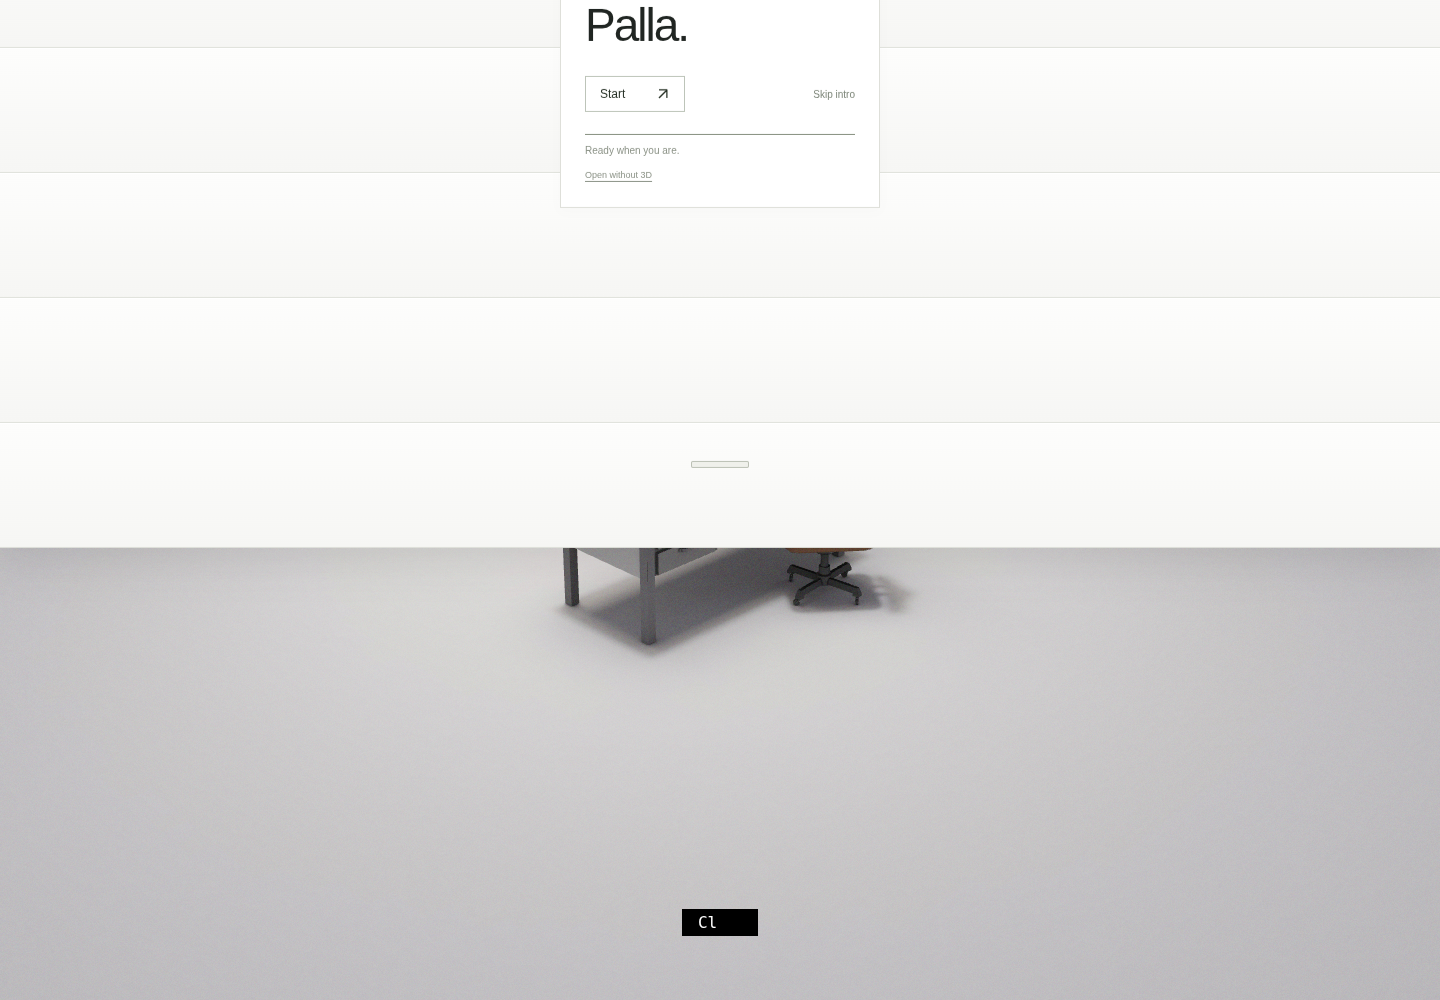
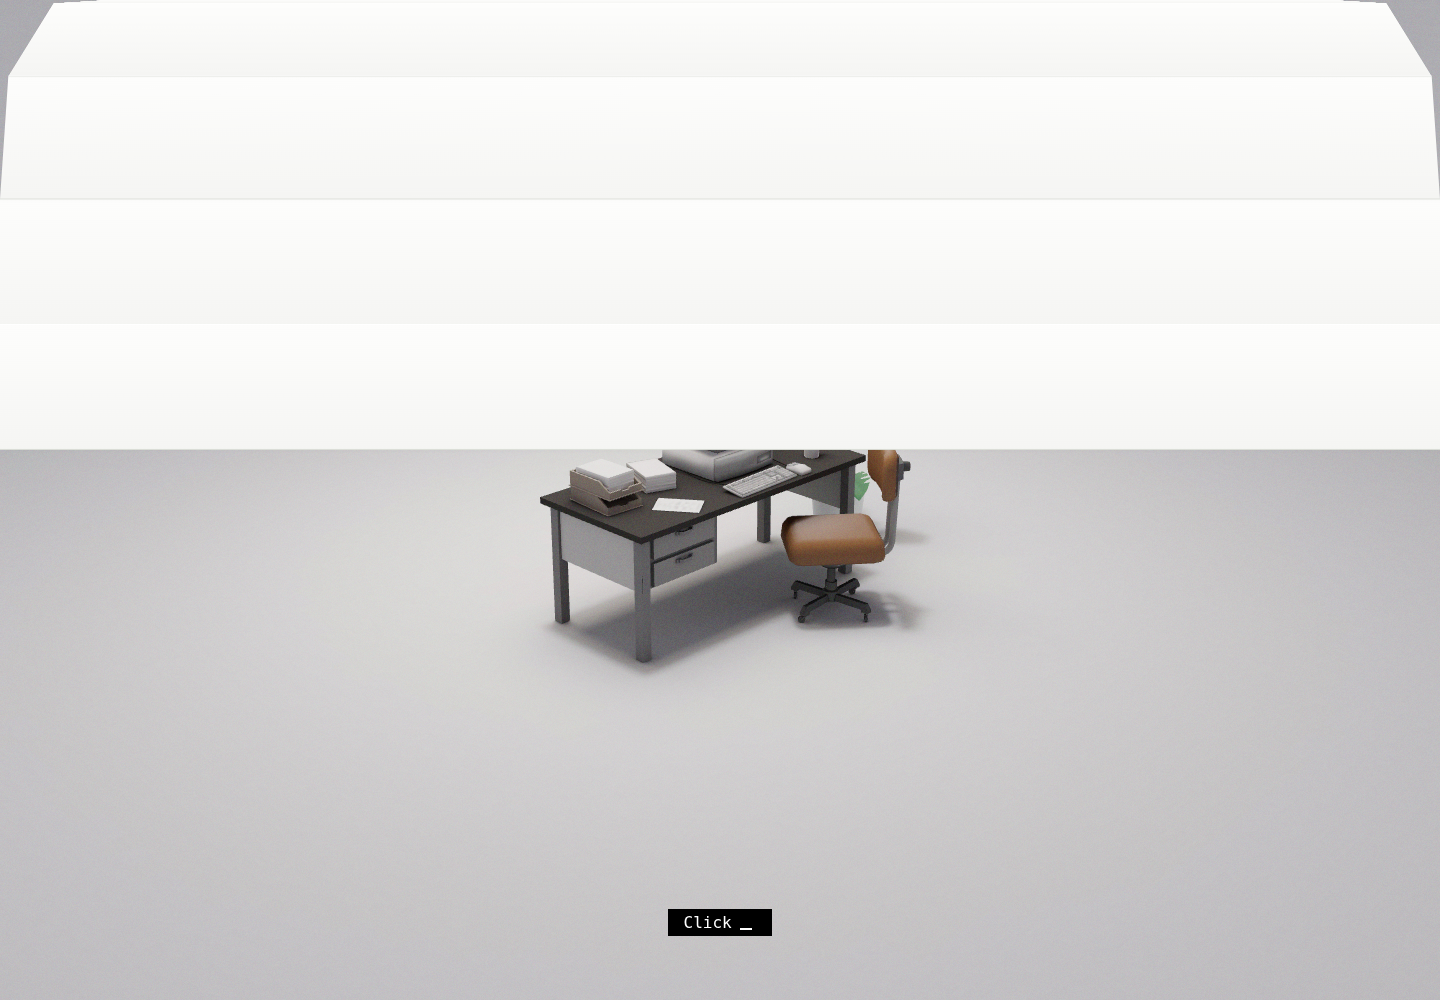
Refine entrance card and animate sectional garage panels

diff --git a/experience/src/Application/UI/components/LoadingScreen.tsx b/experience/src/Application/UI/components/LoadingScreen.tsx
@@ -9,6 +9,7 @@ const LoadingScreen: React.FC = () => {
     const [phase, setPhase] = useState<'closed' | 'opening' | 'done'>('closed');
     const started = useRef(false);
     const timer = useRef<number>();
+    const panels = useRef<(HTMLDivElement | null)[]>([]);
 
     useEffect(() => {
         const update = (event: Event) => {
@@ -28,6 +29,44 @@ const LoadingScreen: React.FC = () => {
         };
     }, []);
 
+    useEffect(() => {
+        if (phase !== 'opening') return;
+        const began = performance.now();
+        let frame = 0;
+        const animate = (now: number) => {
+            const t = Math.max(0, Math.min(1, (now - began - 100) / 2200));
+            const eased = t < .5 ? 4 * t * t * t : 1 - Math.pow(-2 * t + 2, 3) / 2;
+            const height = window.innerHeight;
+            const panelHeight = height / 8;
+            const radius = panelHeight * 1.15;
+            const lift = eased * (height + Math.PI * radius / 2 + height * .25);
+            const bend = Math.min(1, lift / radius);
+            // A vertical track curves into an overhead track. Each panel follows it.
+            const track = (distance: number) => {
+                const flatY = height - distance;
+                const turn = distance - (height - radius);
+                if (turn <= 0) return { y: flatY, z: 0 };
+                const angle = Math.min(Math.PI / 2, turn / radius);
+                const y = radius - radius * Math.sin(angle);
+                const z = -radius * (1 - Math.cos(angle)) - Math.max(0, turn - Math.PI * radius / 2);
+                return { y: flatY + (y - flatY) * bend, z: z * bend };
+            };
+            panels.current.forEach((panel, i) => {
+                if (!panel) return;
+                const top = track(height - i * panelHeight + lift);
+                const bottom = track(height - (i + 1) * panelHeight + lift);
+                const length = Math.hypot(bottom.y - top.y, bottom.z - top.z);
+                const angle = Math.atan2(bottom.z - top.z, bottom.y - top.y);
+                panel.style.top = '0px';
+                panel.style.height = `${length + 1}px`;
+                panel.style.transform = `translate3d(0,${(top.y + bottom.y) / 2 - (length + 1) / 2}px,${(top.z + bottom.z) / 2}px) rotateX(${angle}rad)`;
+            });
+            if (t < 1) frame = requestAnimationFrame(animate);
+        };
+        frame = requestAnimationFrame(animate);
+        return () => cancelAnimationFrame(frame);
+    }, [phase]);
+
     const ready = progress >= 1 && !failed;
     const start = () => {
         if (!ready || started.current) return;
@@ -38,24 +77,24 @@ const LoadingScreen: React.FC = () => {
         eventBus.dispatch('loadingScreenDone', { immediate });
         const ui = document.getElementById('ui');
         if (ui) ui.style.pointerEvents = 'none';
-        if (!immediate) timer.current = window.setTimeout(() => setPhase('done'), 1800);
+        if (!immediate) timer.current = window.setTimeout(() => setPhase('done'), 2400);
     };
 
     if (phase === 'done') return null;
     return (
         <div className={`garage-entry garage-entry--${phase}`} aria-label="Workshop entrance">
-            <div className="garage-door" aria-hidden={phase === 'opening'}>
-                <div className="garage-panels" aria-hidden="true">
-                    {Array.from({ length: 8 }, (_, i) => <div key={i} className="garage-panel" />)}
+            <div className="garage-door" aria-hidden="true">
+                <div className="garage-panels">
+                    {Array.from({ length: 8 }, (_, i) => <div key={i} ref={node => { panels.current[i] = node; }} style={{ top: `${i * 12.5}%` }} className="garage-panel" />)}
                 </div>
+            </div>
                 <section className="garage-nameplate" aria-label="Shreethan Palla portfolio">
                     <h1 className="garage-name">Shreethan Palla</h1>
                     <p className="garage-subtitle">Portfolio</p>
                     <button className="garage-start" onClick={start} disabled={!ready}>Start</button>
                     <p className="garage-sr-only" role="status">{failed ? 'Unable to load the workshop.' : ready ? 'Ready when you are.' : 'Loading workshop.'}</p>
-                    {failed && <a className="garage-direct" href="/desktop">Open portfolio</a>}
+                    <a className="garage-direct" href="/desktop">Open without 3D</a>
                 </section>
-            </div>
         </div>
     );
 };

diff --git a/experience/src/Application/UI/style.css b/experience/src/Application/UI/style.css
@@ -184,21 +184,22 @@ br {
     }
 }
 
-/* Garage entrance: no models, external fonts or artificial loading delays. */
-.garage-entry{position:fixed;inset:0;z-index:50;overflow:hidden;pointer-events:auto}
+/* Sectional door and minimal centered card. */
+.garage-entry{position:fixed;inset:0;z-index:50;overflow:hidden;pointer-events:auto;display:grid;place-items:center}
 .garage-entry--opening{pointer-events:none}
-.garage-door{position:absolute;inset:0;display:grid;place-items:center;background:#fafaf9;box-shadow:0 15px 40px #00000015;transform:translate3d(0,0,0);transition:transform 1.7s cubic-bezier(.65,0,.2,1);will-change:transform}
-.garage-entry--opening .garage-door{transform:translate3d(0,-108%,0)}
-.garage-panels{position:absolute;inset:0;display:grid;grid-template-rows:repeat(8,1fr);pointer-events:none}
-.garage-panel{background:linear-gradient(180deg,#fdfdfc 0%,#f6f6f4 100%);border-bottom:1px solid #dfe1db;box-shadow:inset 0 1px #ffffff;box-sizing:border-box}
-.garage-nameplate{position:relative;width:320px;height:320px;padding:28px;box-sizing:border-box;display:flex;flex-direction:column;align-items:center;justify-content:center;background:#fff;border:1px solid #e3e4df;text-align:center}
-.garage-name{font:400 30px/1.2 Arial,Helvetica,sans-serif!important;letter-spacing:-.8px;color:#202522!important;margin:0!important}
-.garage-subtitle{font:12px/1.5 Arial,Helvetica,sans-serif!important;letter-spacing:1px;color:#858c82!important;margin:12px 0 28px!important}
-.garage-start{min-width:104px;border:1px solid #bdc4b9;background:#fff;padding:11px 22px;font:13px Arial,Helvetica,sans-serif;color:#273126;cursor:pointer;text-align:center}
-.garage-start:hover:not(:disabled){background:#f4f6f1}
+.garage-door{position:absolute;inset:0;transform-style:preserve-3d;pointer-events:none}
+.garage-panels{position:absolute;inset:0;perspective:140vh;perspective-origin:50% 0%;transform-style:preserve-3d}
+.garage-panel{position:absolute;left:0;width:100%;height:calc(12.5% + 1px);background:linear-gradient(180deg,#fdfdfc 0%,#f5f5f3 100%);border-bottom:1px solid #dcdfd8;box-shadow:inset 0 1px #fff,0 2px 3px #00000003;box-sizing:border-box;backface-visibility:visible;transform-origin:50% 50%;will-change:transform}
+.garage-nameplate{position:relative;z-index:2;width:264px;height:264px;padding:20px;box-sizing:border-box;display:flex;flex-direction:column;align-items:center;justify-content:center;background:#fff;border:1px solid #e7e9e3;border-radius:18px;box-shadow:0 6px 24px #20252205;text-align:center;transition:opacity .2s ease,transform .25s ease}
+.garage-entry--opening .garage-nameplate{opacity:0;transform:translateY(-6px)}
+.garage-name{font:400 26px/1.2 Arial,Helvetica,sans-serif!important;letter-spacing:-.7px;color:#202522!important;margin:0!important}
+.garage-subtitle{font:11px/1.5 Arial,Helvetica,sans-serif!important;letter-spacing:1px;color:#858c82!important;margin:10px 0 22px!important}
+.garage-start{min-width:104px;border:1px solid #c9d0c4;border-radius:8px;background:#f8faf6;padding:10px 22px;font:13px Arial,Helvetica,sans-serif;color:#273126;cursor:pointer;text-align:center}
+.garage-start:hover:not(:disabled){background:#eef2e9;border-color:#aebba5}
 .garage-start:disabled{opacity:.4;cursor:wait}
-.garage-direct{font:11px/1.6 Arial,Helvetica,sans-serif;color:#70796b;margin-top:15px;text-underline-offset:3px}
+.garage-direct{font:10px/1.6 Arial,Helvetica,sans-serif;color:#858d7e;margin-top:12px;text-decoration:none}
+.garage-direct:hover{text-decoration:underline;text-underline-offset:3px}
 .garage-sr-only{position:absolute!important;width:1px;height:1px;padding:0;margin:-1px;overflow:hidden;clip:rect(0,0,0,0);white-space:nowrap;border:0}
 .garage-nameplate button:focus-visible,.garage-direct:focus-visible{outline:2px solid #5f7756;outline-offset:4px}
-@media(max-width:600px){.garage-nameplate{width:252px;height:252px;padding:20px}.garage-name{font-size:26px!important}}
-@media(prefers-reduced-motion:reduce){.garage-door{transition:none}}
+@media(max-width:600px){.garage-nameplate{width:244px;height:244px}.garage-name{font-size:24px!important}}
+@media(prefers-reduced-motion:reduce){.garage-nameplate{transition:none}}

diff --git a/docs/DECISIONS.md b/docs/DECISIONS.md
@@ -25,4 +25,4 @@ No simultaneous redesign of all six steps. No claims of real robot accuracy with
 
 ## Garage entrance implemented
 
-The reference room is now revealed by a lightweight white sectional-door overlay. Its centered square shows only Shreethan Palla, Portfolio, and Start. Loading status is available to assistive technology; a direct desktop link appears only on failure. Start lifts the door in 1.7 seconds while the existing room camera glides for 2.5 seconds. Reduced-motion snaps the camera to the overview. Model load errors show the direct content route. Physical door tracks and panel bending are not simulated. The rest of the reference scene remains the next asset-replacement checkpoint.
+The reference room is revealed by a white sectional-door overlay. A small, rounded, centered card shows Shreethan Palla, Portfolio, Start, and a quiet Open without 3D link. Loading status is available to assistive technology. Eight panels follow a curved overhead track and tilt independently during the 2.4-second reveal while the existing room camera glides. Reduced-motion skips the opening animation. The direct desktop route remains available during loading or failure. The rest of the reference scene remains the next asset-replacement checkpoint.
